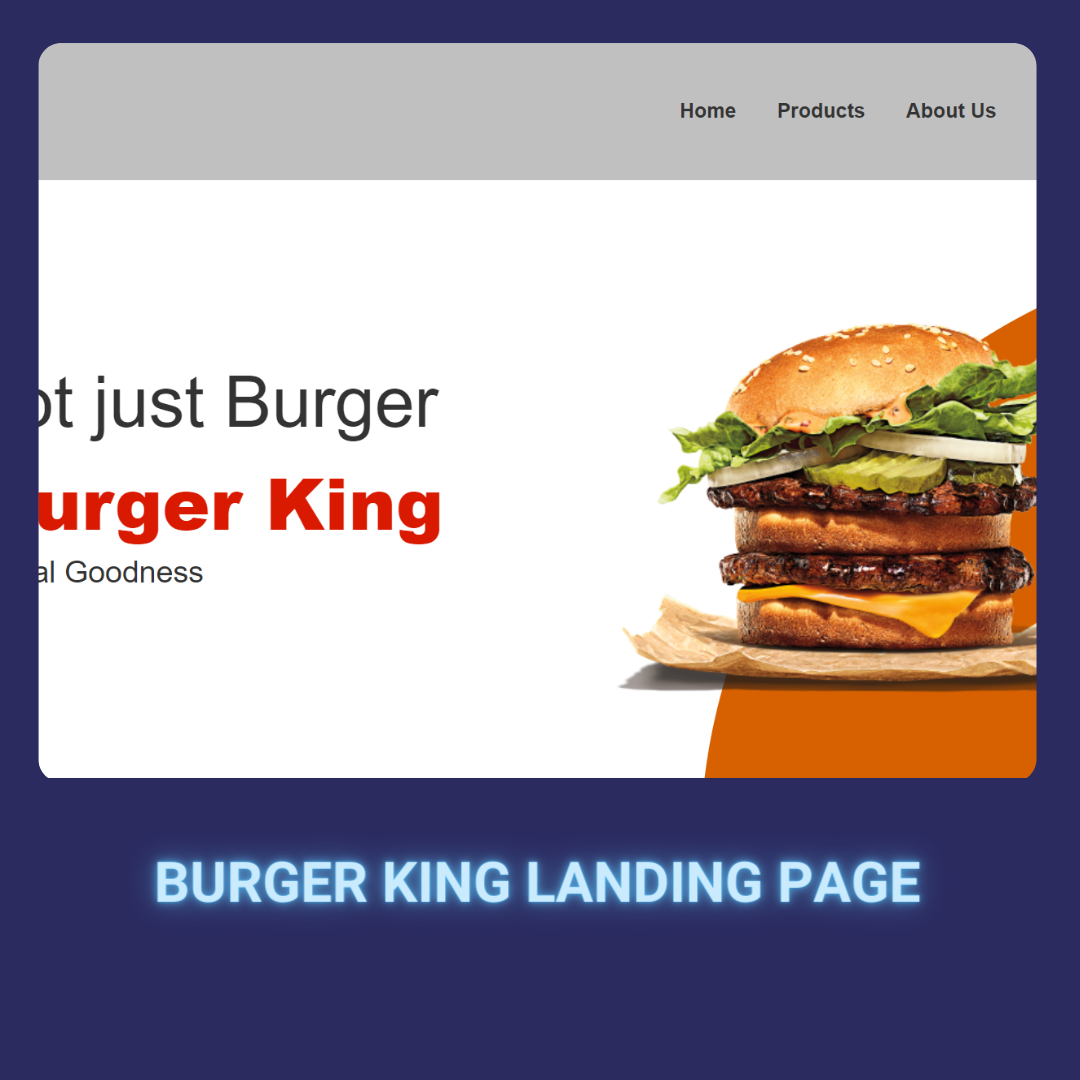
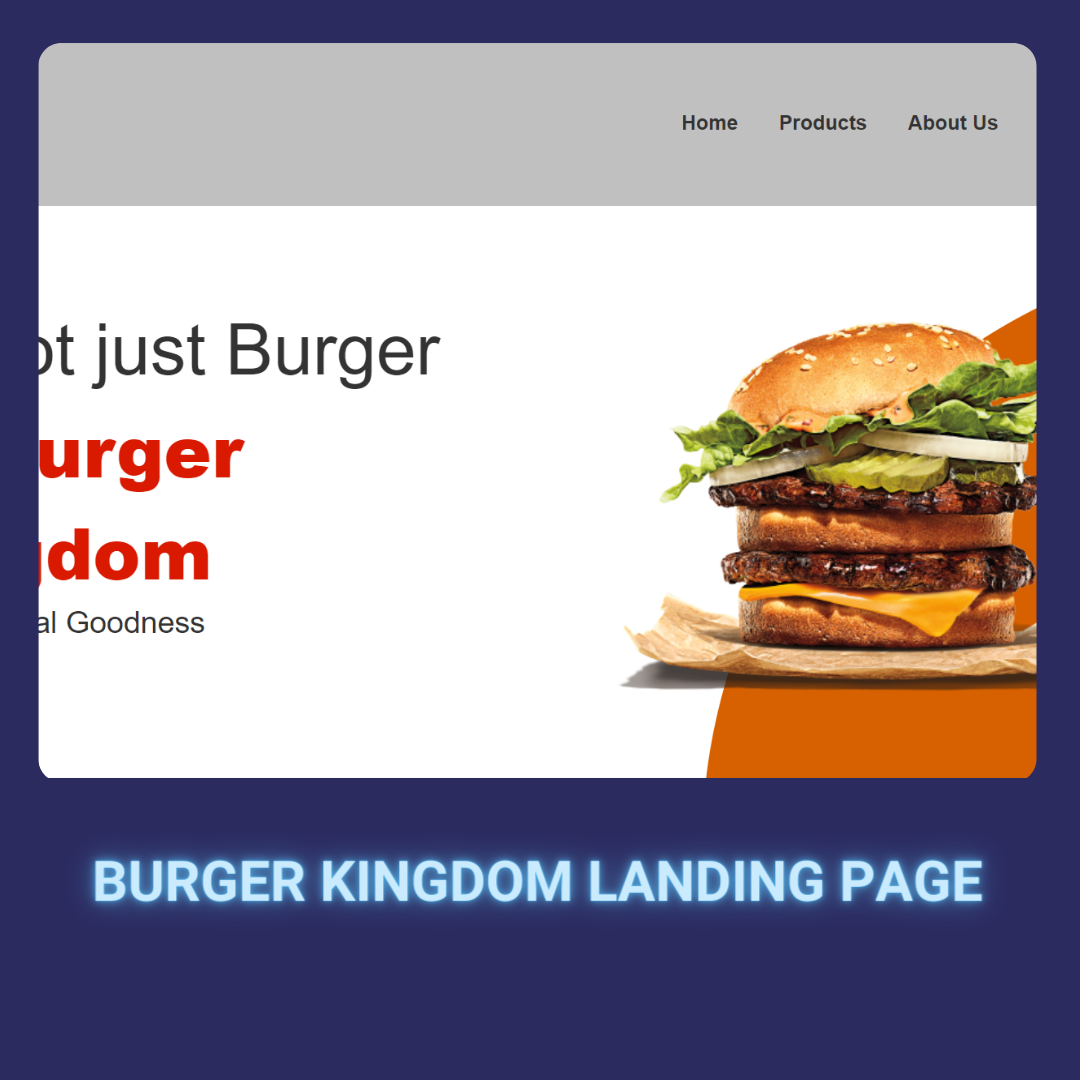
new

diff --git a/index.html b/index.html
@@ -312,7 +312,7 @@
                             <img src="cw8.png">
                             <div class="layer">
                                 <h5>Front-end Web Design</h5>
-                                <p><b>HTML, CSS, JS - </b>This web application focuses on a landing page of the Burger King company.  
+                                <p><b>HTML, CSS, JS - </b>This web application focuses on a landing page of the Burger Kingdom company.  
                                     The aim of the project was to provide information about the products.</p>
                                 <a href="https://landing-page-seven-rho-47.vercel.app/"><i class="bx bx-link-external" style="color: rgb(0, 0, 0);"></i></a>
                             </div>
